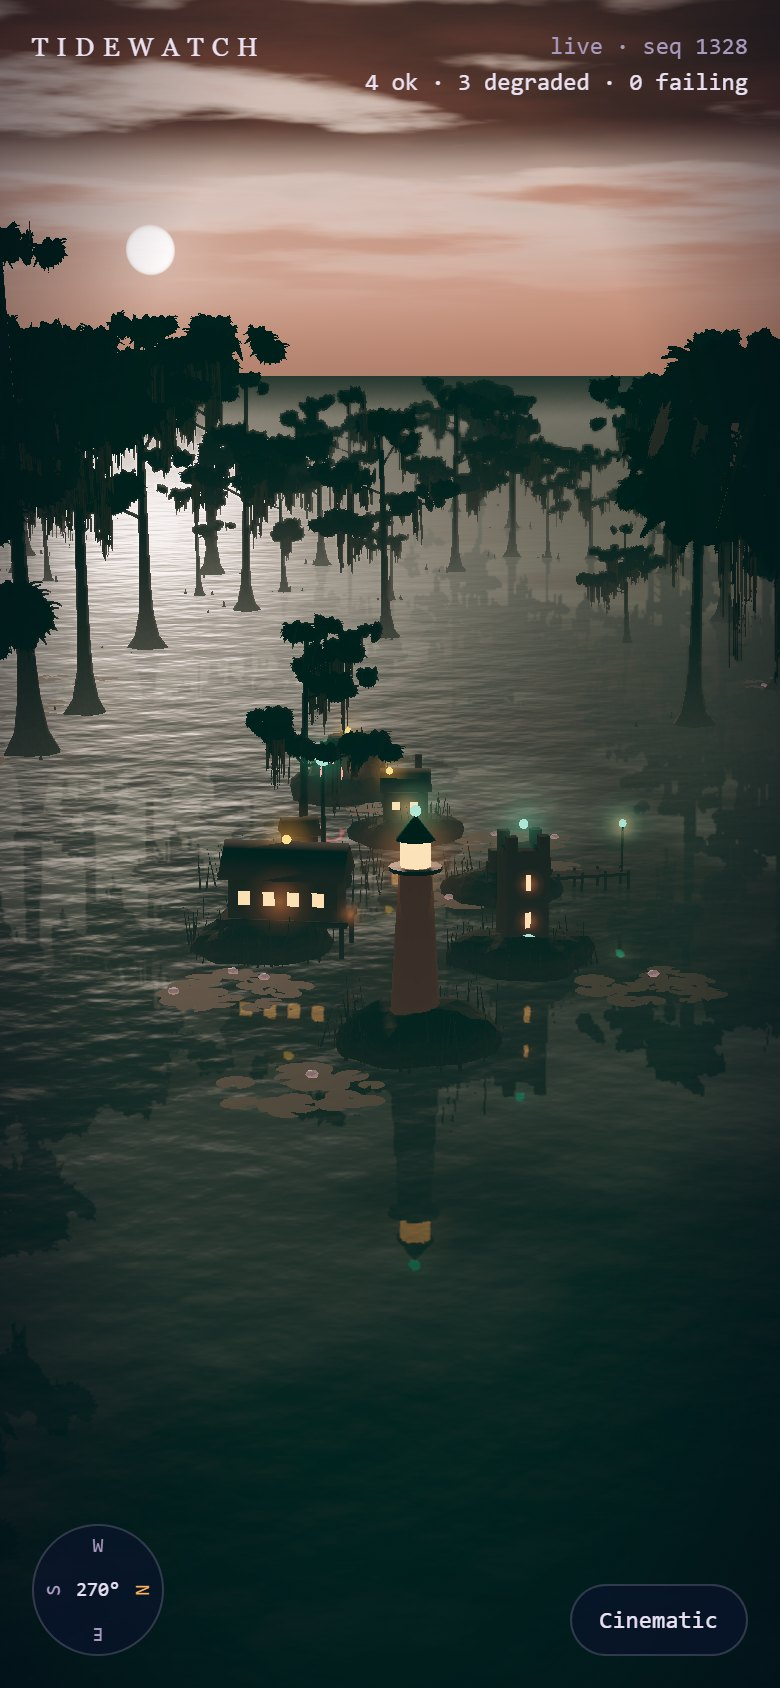
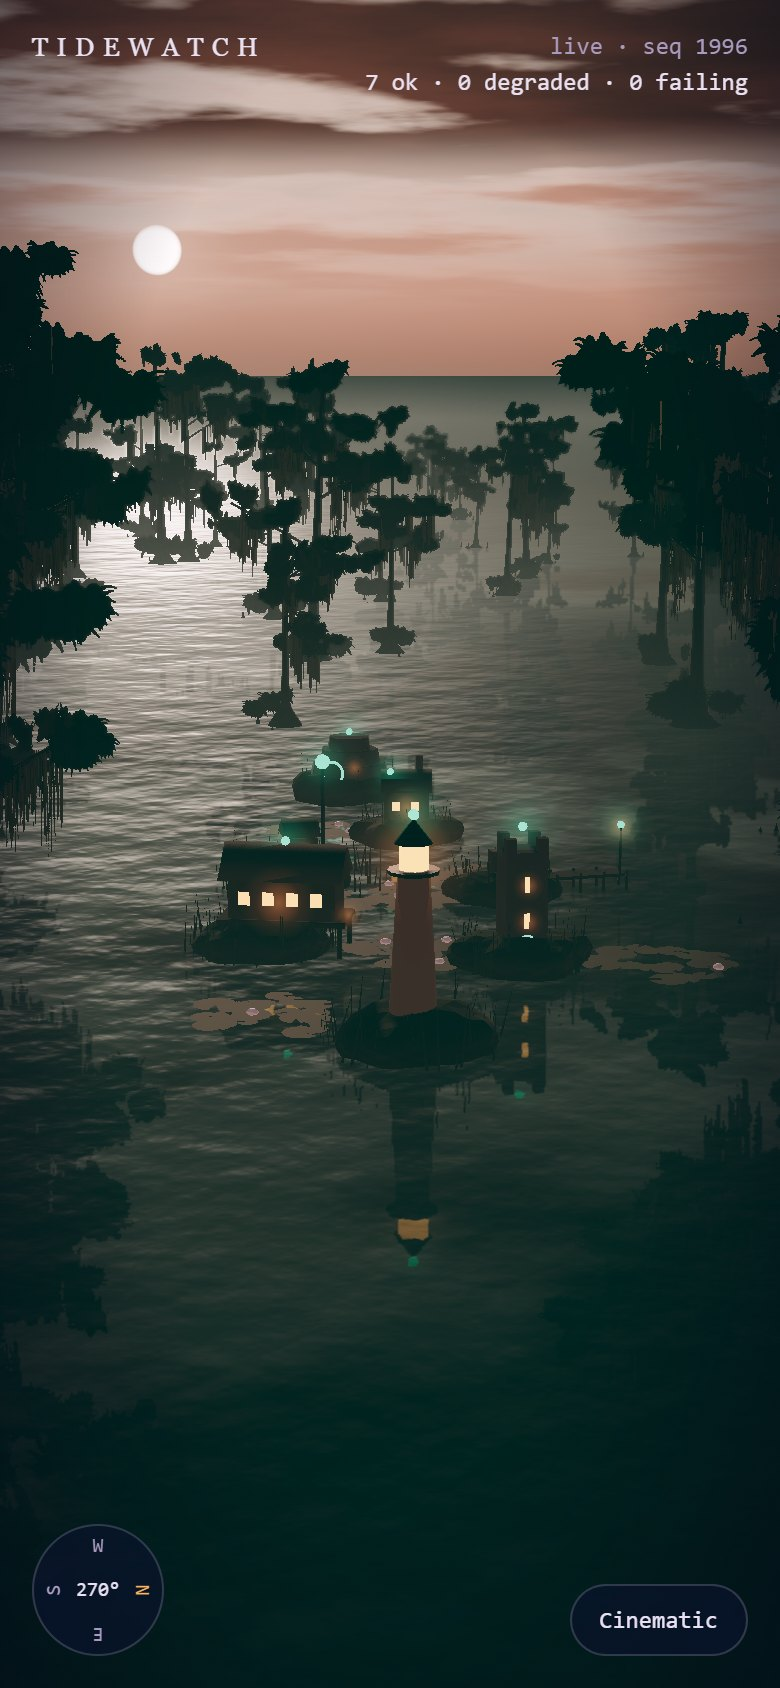
docs(screenshots): Round 2 final set after the tree fix; critique pass j

diff --git a/docs/screenshots/round-2/CRITIQUE.md b/docs/screenshots/round-2/CRITIQUE.md
@@ -13,7 +13,8 @@ Same GPU as Round 1 (Intel UHD, i3-1125G4, D3D11).
 | e | Readable at a glance: lighthouse, tower, stilt hall, jetty, beacon, workshop, vault (status ring) | (desktop accepted) |
 | f/g | Phone: moss curtain from a hero tree mid-frame; Balanced: giant blob trees, brown water | Placement uses the real horizontal FOV; portrait camera a bit higher; stylised ring further out, slimmer trees; stylised water reflects the teal fog |
 | h | Phone: camera inside a canopy (crowns ~0.4x height wide crossed the narrow frustum) | Crown-aware clearance from the frustum edge and sight lines; eye clearance; no hero trees in portrait |
-| i + final | Phone reads as a tree-lined channel with every structure visible; desktop unchanged | Static structure meshes merged per material (draw calls 270 -> 169) without visual change |
+| i | Phone reads as a tree-lined channel with every structure visible; desktop unchanged | Static structure meshes merged per material (draw calls 270 -> 169) without visual change |
+| j (owner feedback) | Background trees read as bare trunks, some looking like they float above the water: crowns started too high, nothing grew below them, and the densest fog sat exactly at the waterline, fading the trunk bases into a pale band | Crowns from ~30% height; understory bushes around 80% of bases and along the banks; a dark root mound under every trunk; fog spread higher (height 2.2 -> 4.2, density 0.022 -> 0.016). Trees on islets removed: their fuller crowns hid the structures |
 
 Open for Rounds 3-4: light shafts through the canopy, bloom on lanterns/glint, fireflies, boats and
 wakes, health drama (amber pulse / red flicker / storm / rain / lightning), HUD + labels; Balanced

diff --git a/docs/HANDOVER.md b/docs/HANDOVER.md
@@ -26,7 +26,7 @@ Screenshots and critique logs: `docs/screenshots/round-1/`, `docs/screenshots/ro
 
 | Tier | fps (this machine: Intel UHD, i3-1125G4, 1440x900, dpr 1) | Draw calls | Triangles | GPU mem (est.) | Download beyond initial |
 | --- | --- | --- | --- | --- | --- |
-| Cinematic | **41** (headed Chrome) - below the Iris Xe floor, as expected for this GPU | 169 | 300k | 28 MB | 14.8 KB gzip JS (all procedural) |
+| Cinematic | **41** (headed Chrome, before the understory pass) - this GPU is below the Iris Xe floor | 173 | 308k | 28 MB | 15.1 KB gzip JS (all procedural) |
 | Balanced | not measured headed (headless throttles rAF; see below) | 39 | 7k | ~0 | none |
 | Simple | not measured headed | 25 | 3k | ~0 | none |
 
